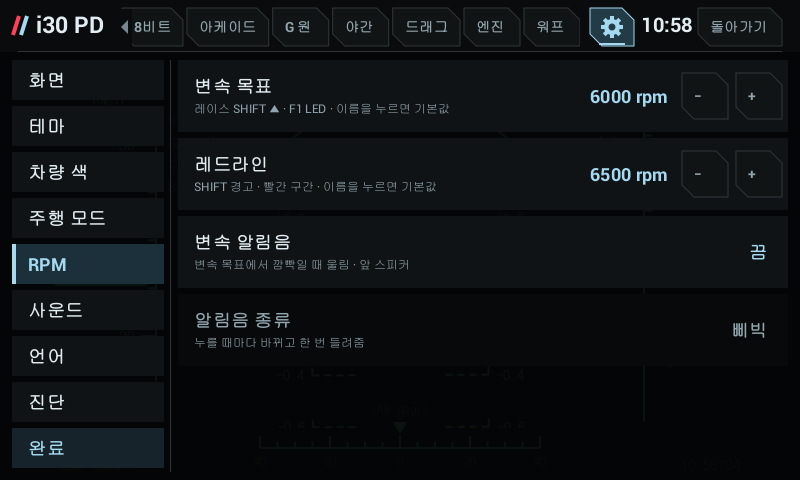
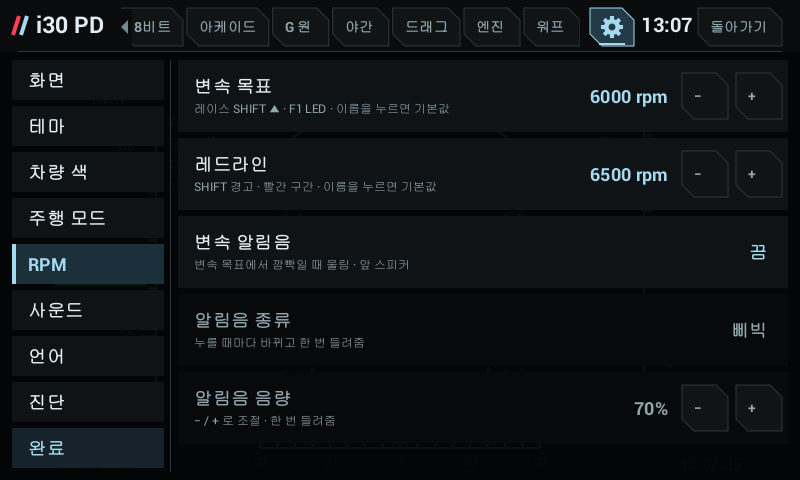
Shift beep volume: English labels, 70% default in the renderer, settings previews and docs
The beta volume row had no translations, and PitRenderer's beepVol started at 0, so a frame
drawn before setBeep (the 9_settings_rpm preview) read "0%". Regenerated the two RPM settings
screenshots and described the volume and the mix into the engine sound in TABS.md.

Claude-Session: https://claude.ai/code/session_01Az6daR2hPKNjYgzVENe1Hy

diff --git a/shared/src/com/veloster/i18n/UiText.java b/shared/src/com/veloster/i18n/UiText.java
@@ -76,6 +76,7 @@ public final class UiText {
         EN.put("Wi-Fi/AP 상태가 안정된 꺼짐/켜짐 상태가 아닙니다. 변경하지 않았습니다.","Wi-Fi/AP is not in a stable on/off state. No changes were made.");
         EN.put("XY · 잔상 3 s","XY · 3 s afterglow");
         EN.put("e-LSD 수치","e-LSD value");
+        EN.put("− / + 로 조절 · 한 번 들려줌","Adjust with − / + · plays it once");
         EN.put("−1분","-1 min");
         EN.put("−2분30초","-2m30s");
         EN.put("−30초","-30 s");
@@ -326,6 +327,7 @@ public final class UiText {
         EN.put("알림 채널 · 앞 스피커","Alert channel · front speakers");
         EN.put("알림만","Notification only");
         EN.put("알림만 / Notification only","Notification only");
+        EN.put("알림음 음량","Beep volume");
         EN.put("알림음 종류","Beep sound");
         EN.put("앞 오른쪽 공기압","Front-right pressure");
         EN.put("앞 오른쪽 휠","Front-right wheel");

diff --git a/shared/src/com/veloster/vehicle/PitRenderer.java b/shared/src/com/veloster/vehicle/PitRenderer.java
@@ -61,7 +61,7 @@ public final class PitRenderer {
     public void setSettings(int cat,String language,int pick,int[] targets){settingsCat=cat;langSel=language;pickSlot=pick;modeTargets=targets;}
     /** Virtual engine sound settings: switch, route (SettingsLayout.SOUND_ROUTES), engine and exhaust, and the − / + values. */
     private boolean soundOn;private int soundRoute,soundEngine,soundExhaust;private int[] soundVals=SettingsLayout.SOUND_DEFAULT;
-    private boolean beepOn;private int beepSound,beepVol;
+    private boolean beepOn;private int beepSound,beepVol=70;
     public void setBeep(boolean on,int sound,int vol){beepOn=on;beepSound=sound;beepVol=vol;}
     /** The shift cue of the last frame (rpm at the target, moving, not top gear): the optional beep follows it. */
     public boolean shiftCue(){return cue!=null&&cue.shift;}

diff --git a/i30pd_port/app/TABS.md b/i30pd_port/app/TABS.md
@@ -151,7 +151,7 @@ PD에서 새로 고를 수 있는 항목(순간 연료소모 · 평균 연비 ·
 
 - **설정**(시계 왼쪽 톱니바퀴): 왼쪽에 분류(`화면 · 테마 · 차량 색 · 주행 모드 · RPM · 사운드 · 언어 · 진단 · 완료`), 오른쪽에 고른 분류의 목록이 나온다. 누르는 즉시 적용·저장되고, `완료`나 톱니바퀴를 다시 누르면 닫힌다.
   - `RPM`: **변속 목표**(레이스 `SHIFT ▲`·F1 LED, F1 탭 `− / +`와 같은 값)와 **레드라인**(HUD·VFD·8비트의 SHIFT/REV LIMIT 경고, 레이스 RPM 빨간 글씨, 여러 화면의 빨간 구간; 기본 가솔린 6500·디젤 4600, 가솔린 5000~7000·디젤 3500~5000)을 `− / +`로 100 rpm씩 바꾼다. 이름 쪽을 누르면 기본값으로 돌아간다. 레드라인을 낮추면 변속 목표도 그 아래로 내려온다.
-    **변속 알림음**(기본 끔): 변속 목표에서 깜빡임이 켜지는 순간 짧은 소리 한 번(깜빡이는 동안 반복 없음, 1.5초 안에는 다시 안 울림, 주행 중·최고단 아닐 때만). **알림음 종류**를 누를 때마다 삐빅 → 삑 → 상승 3음 → 레이스 버저 → 틱틱으로 바뀌고 한 번 들려 준다. 소리는 아래 `사운드`의 알림 채널과 같은 길(`STREAM_NAVI` + 마이컴 `startAudio(0x41)`)로 나가 앞 스피커에서 라디오·내비 위에 섞인다(`ShiftBeep`, `ShiftGuide.Beep`).
+    **변속 알림음**(기본 끔): 변속 목표에서 깜빡임이 켜지는 순간 짧은 소리 한 번(깜빡이는 동안 반복 없음, 1.5초 안에는 다시 안 울림, 주행 중·최고단 아닐 때만). **알림음 종류**를 누를 때마다 삐빅 → 삑 → 상승 3음 → 레이스 버저 → 틱틱으로 바뀌고 한 번 들려 준다. **알림음 음량**은 `− / +`로 10%씩(기본 70%, 이름 쪽을 누르면 70%). 소리는 아래 `사운드`의 알림 채널과 같은 길(`STREAM_NAVI` + 마이컴 `startAudio(0x41)`)로 나가 앞 스피커에서 라디오·내비 위에 섞인다. 엔진 사운드가 그 길로 나오고 있으면 알림음을 엔진 소리 스트림에 섞어 넣는다(따로 열면 엔진 소리에 가려 들리지 않았음, 실차 확인). 엔진 소리는 끊기지 않는다(`ShiftBeep`, `ShiftGuide.Beep`, `EngineSound.mixBeep`).
   - `사운드`(기본 끔): **엔진 사운드** — 받은 RPM·가속 페달·부스트로 엔진 소리를 합성해 낸다(`EngineSynth`, 녹음 파일 없음). 계기판이 열려 있고 시동이 걸려 있을 때만, 후진이면 조용하다. **출력 경로**는 누를 때마다 바뀐다: `알림 채널 · 앞 스피커`(기본, 실차에서 유일하게 소리가 나는 길, 라디오·내비 위에 섞이고 저음은 없음) · `내비 효과음` · `미디어 소스` · `안드로이드 기본`(셋은 이 차에서 무음으로 확인, 다른 헤드유닛용으로 남겨 둠). **엔진**(1.6 터보 4기통·직렬 6기통 터보·V6 트윈터보·V8 크로스플레인·V8 플랫플레인)과 **배기**(순정·스포츠 머플러·중통 제거·풀 배기 · 팝앤뱅)를 따로 고르고, **음량** 10~100 %, **팝 빈도·터보 휘슬·블로오프** 0~200 %, **지연 보정** 0~150 ms(CAN으로 늦게 오는 RPM을 기울기로 앞당겨 예측)를 `− / +`로 바꾼다. 소리는 [체험 페이지](https://claude.ai/artifact/KKyyDju6TZ1jEgyZV5Bf9y)와 같은 알고리즘이다.
   - `화면`: 22개 화면마다 `사용`/`미사용`. 미사용 화면은 탭 줄·목록에 안 나오고 넘길 때도 건너뛴다. 마지막 남은 사용 화면은 끌 수 없고, 지금 보던 화면을 끄면 다음 사용 화면으로 넘어간다.
   - `테마`: 10개 테마를 색 견본과 함께 나열(아래 "테마"). `차량 색`: 8비트 두 화면의 차 색 9가지(아래).
